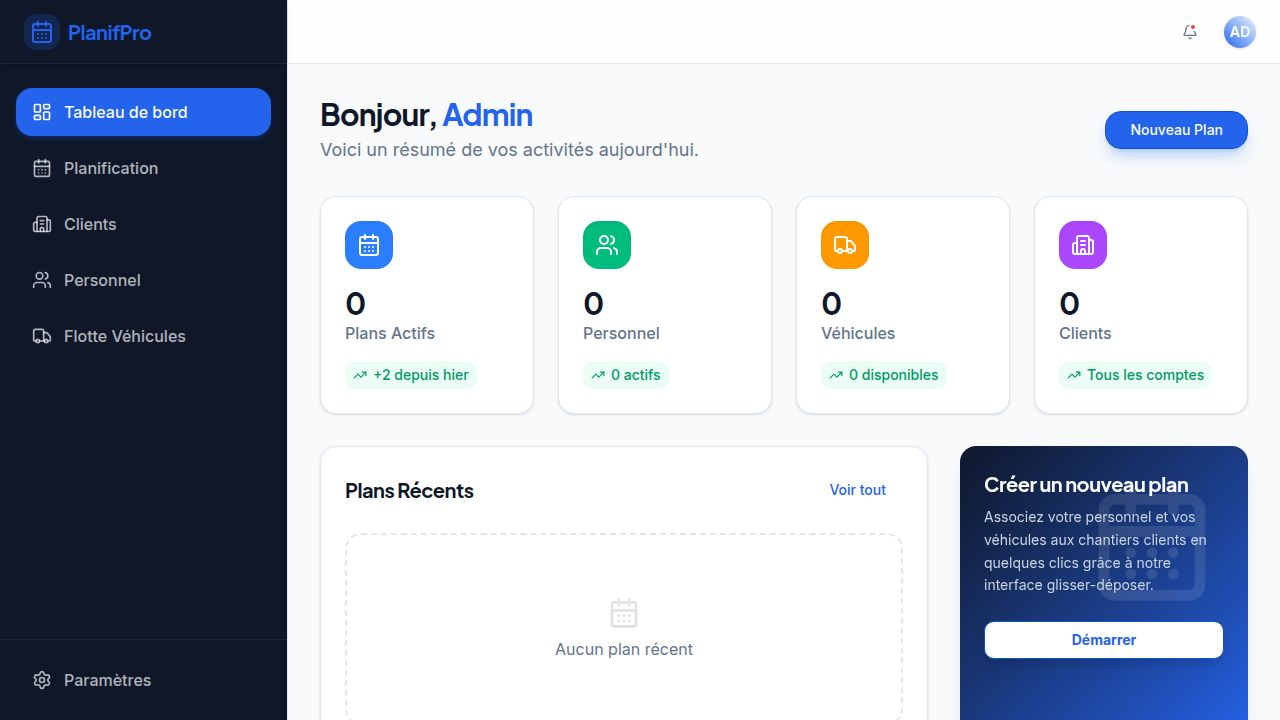
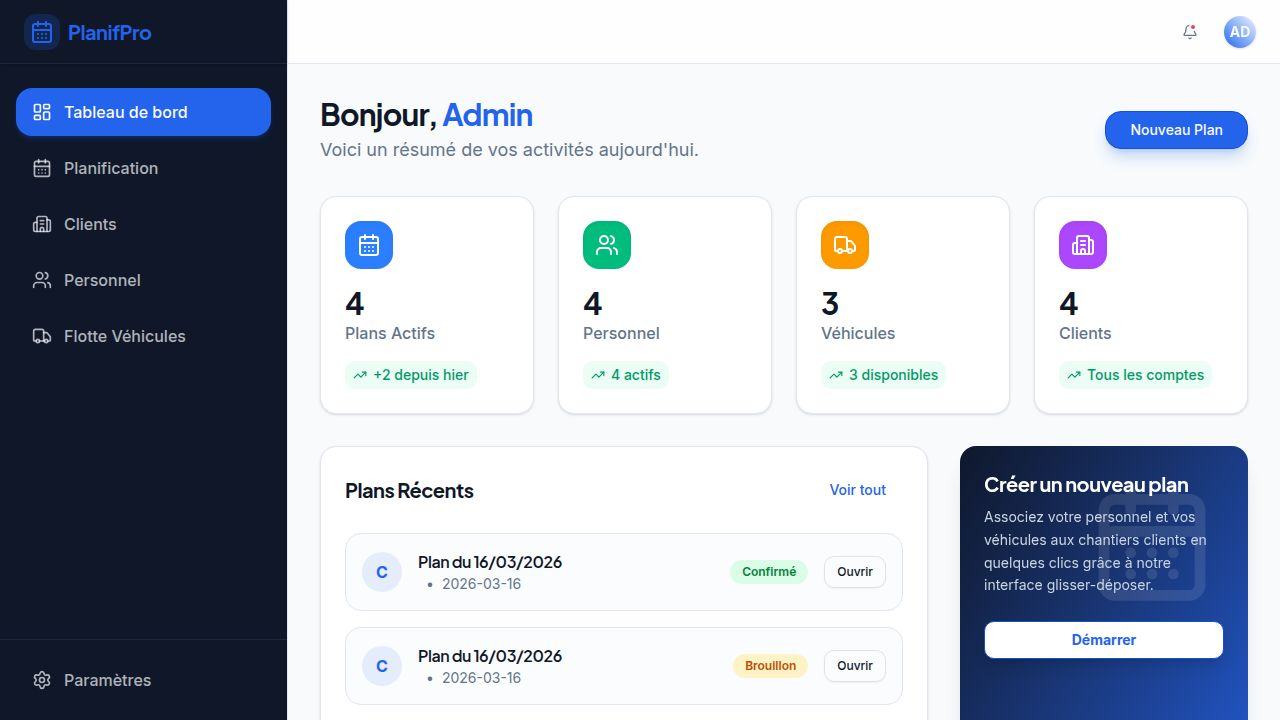
Make expired blocks release their assigned resources Update logic to filter out resources from expired blocks, making them available for reassignment.
Replit-Commit-Author: Agent
Replit-Commit-Session-Id: d0f05048-9caa-4731-bae7-b17f162734a8
Replit-Commit-Checkpoint-Type: full_checkpoint
Replit-Commit-Event-Id: 6dfa645d-e929-48a7-bd45-0f154a72b434
Replit-Commit-Screenshot-Url: https://storage.googleapis.com/screenshot-production-us-central1/ae625a5e-c7ad-4471-84fe-77d1580e74e3/d0f05048-9caa-4731-bae7-b17f162734a8/zgojBnM
Replit-Helium-Checkpoint-Created: true

diff --git a/artifacts/planning-app/src/pages/plan-detail.tsx b/artifacts/planning-app/src/pages/plan-detail.tsx
@@ -554,9 +554,25 @@ export default function PlanDetailPage() {
   }
   if (!plan) return <Layout><div>Plan introuvable</div></Layout>;
 
-  // Resources already used across ALL blocks + busy in other plans
-  const allUsedEmpIds = clientBlocks.flatMap(b => b.empIds);
-  const allUsedPicIds = clientBlocks.flatMap(b => b.picIds);
+  // Determine if a block's time window is still active (not yet expired)
+  // Expired blocks release their resources back to the disponibles panel
+  const isBlockActive = (blk: ClientBlock): boolean => {
+    if (!blk.endDate) return true; // no end date → treat as ongoing
+    const now = new Date();
+    const pad = (n: number) => String(n).padStart(2, '0');
+    const todayStr = `${now.getFullYear()}-${pad(now.getMonth()+1)}-${pad(now.getDate())}`;
+    const nowTime = `${pad(now.getHours())}:${pad(now.getMinutes())}`;
+    if (blk.endDate > todayStr) return true;  // ends after today → active
+    if (blk.endDate < todayStr) return false; // ended before today → expired
+    // ends today → compare times (>= because we keep busy through the end minute)
+    if (!blk.endTime) return true;
+    return blk.endTime >= nowTime;
+  };
+
+  // Only count resources from ACTIVE blocks as "used" — expired blocks release their resources
+  const activeBlocks = clientBlocks.filter(isBlockActive);
+  const allUsedEmpIds = activeBlocks.flatMap(b => b.empIds);
+  const allUsedPicIds = activeBlocks.flatMap(b => b.picIds);
   const busyEmpIds = busyResources?.busyEmpIds ?? [];
   const busyPicIds = busyResources?.busyPicIds ?? [];
   const availableEmployees = employees?.filter(e =>